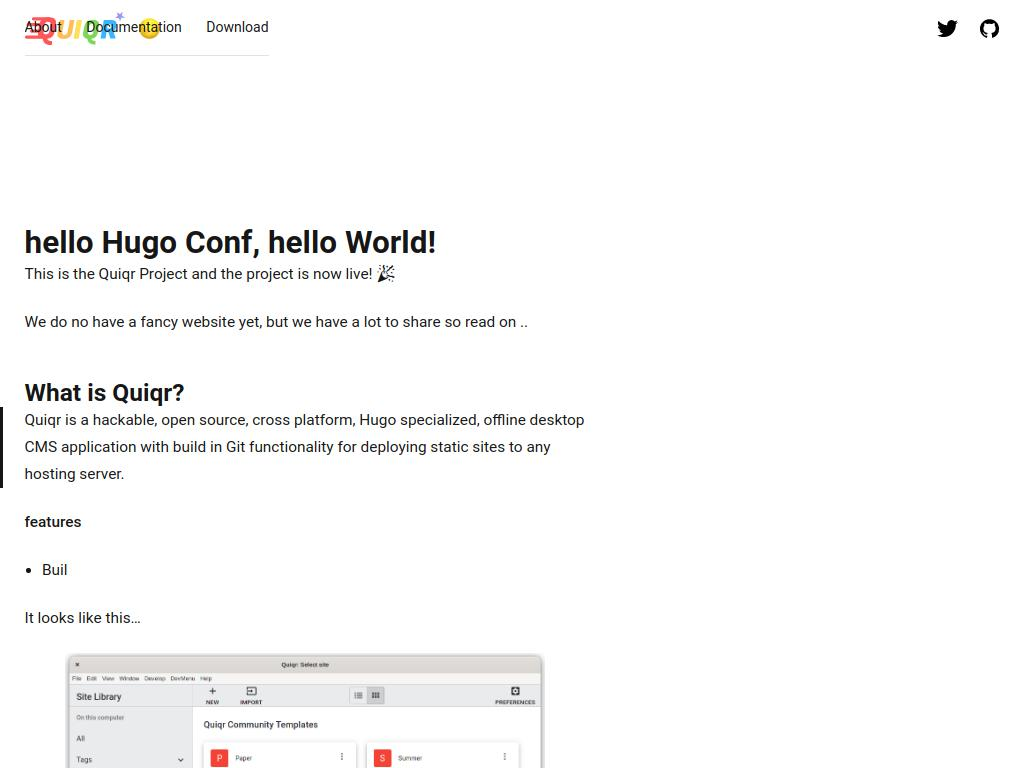
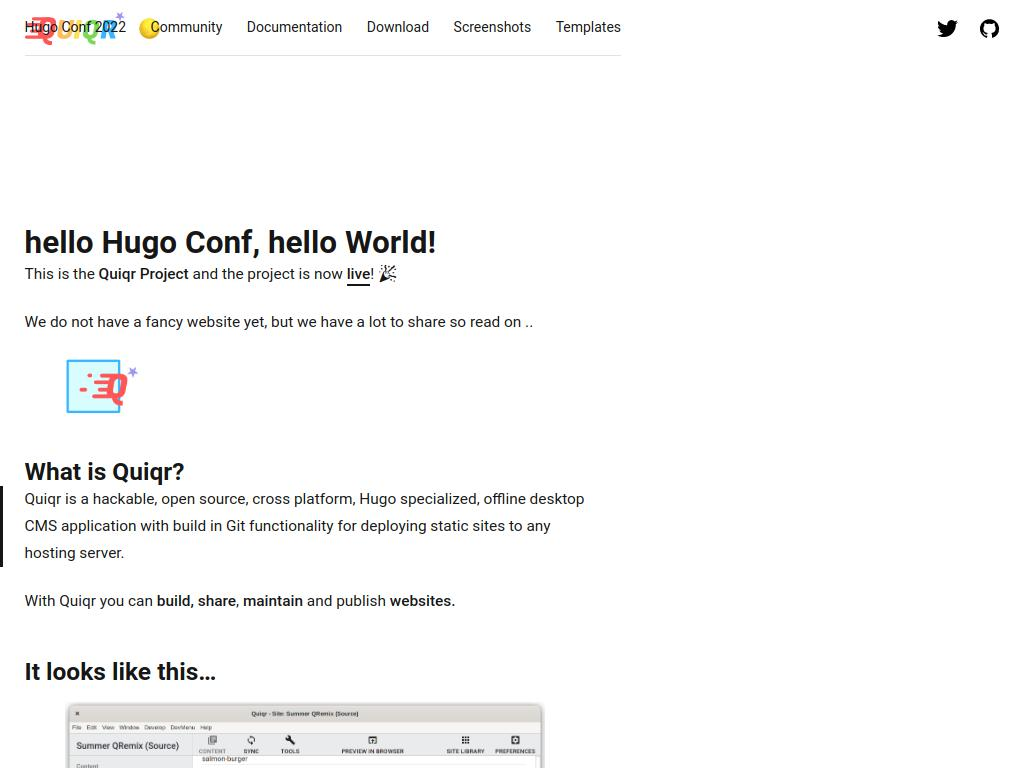
'publication from pim@ojs+linux+5.15.49+quiqr-desktop-app-0.13.6'

diff --git a/themes/Paper/layouts/partials/footer.html b/themes/Paper/layouts/partials/footer.html
@@ -2,6 +2,6 @@
   <p>&copy; {{ now.Year }} <a href="{{ `` | absURL }}">{{ site.Title }}</a></p>
   <p>Powered by <a href="https://gohugo.io/" rel="noopener" target="_blank">Hugo</a></p>
   <p>
-    <a href="https://github.com/nanxiaobei/hugo-paper" rel="noopener" target="_blank">Paper 5.1</a>
+    <a href="https://github.com/mipmip/quiqr-paper-themed-template" rel="noopener" target="_blank">Paper</a>
   </p>
 </footer>

diff --git a/content/page/community/index.md b/content/page/community/index.md
@@ -3,13 +3,13 @@ title: Community
 description: ''
 ---
 
-Quiqr is an open source project and we strive to form an healty, open and inspiring community. For everyone who likes to give a positive contribution... **feel welcome!**
+Quiqr is an open source project and we strive to form a healty, open and inspiring community. To everyone who likes to give a positive contribution... **feel welcome!**
 
 We are organized on GitHub and currently our main projects are...
 
-- [Quiqr Desktop](https://github.com/quiqr/quiqr-desktop) - The Quiqr Desktop Application project, Quiqr Desktop is currently powered by ElectronJS
-- [Quiqr Community Templates](https://github.com/quiqr/quiqr-community-templates) - Community driven list of Hugo site templates with a Quiqr Content Model
-- [The Quiqr Book](https://github.com/quiqr/quiqr-book) - The Quiqr documentation project for users and developers
+- [Quiqr Desktop](https://github.com/quiqr/quiqr-desktop) - The Quiqr Desktop Application project.
+- [Quiqr Community Templates](https://github.com/quiqr/quiqr-community-templates) - Community driven list of Quiqr Site templates.
+- [The Quiqr Book](https://github.com/quiqr/quiqr-book) - The Quiqr documentation project for both users and developers.
 - [Embgit](https://github.com/quiqr/embgit) - Quiqr's integrated Git Client written in Go.
-- [Quiqr CMS Model Partials](https://github.com/quiqr/model-partials) - Quiqr pre-defined CMS buiding blocks which can be included in a Quiqr model.
+- [Quiqr CMS Model Partials](https://github.com/quiqr/model-partials) - Pre-defined CMS buiding blocks which can be included in a Quiqr model.
 

diff --git a/content/page/hugoconf/index.md b/content/page/hugoconf/index.md
@@ -5,7 +5,6 @@ description: ''
 
 Quiqr went public at the [Hugo Conf 2022](https://hugoconf.io/). We want to thanks the people of the HugoConf for giving us time and space to promote our project.
 
-{{<figure src="/images/slides-screenshot.jpg" >}}
+[{{<figure src="/images/slides-screenshot.jpg" >}}](http://slideshugoconf2022.quiqr.org/)
 
-The slides of the Pim's Lightning Talk Pim are available for reading back and you can download these slides as Quiqr Template too.
-
+The slides of Pim's Lightning Talk are available for [reading back](http://slideshugoconf2022.quiqr.org/) and you can download these slides as a [Quiqr Template](https://github.com/quiqr/quiqr-community-templates) too.
